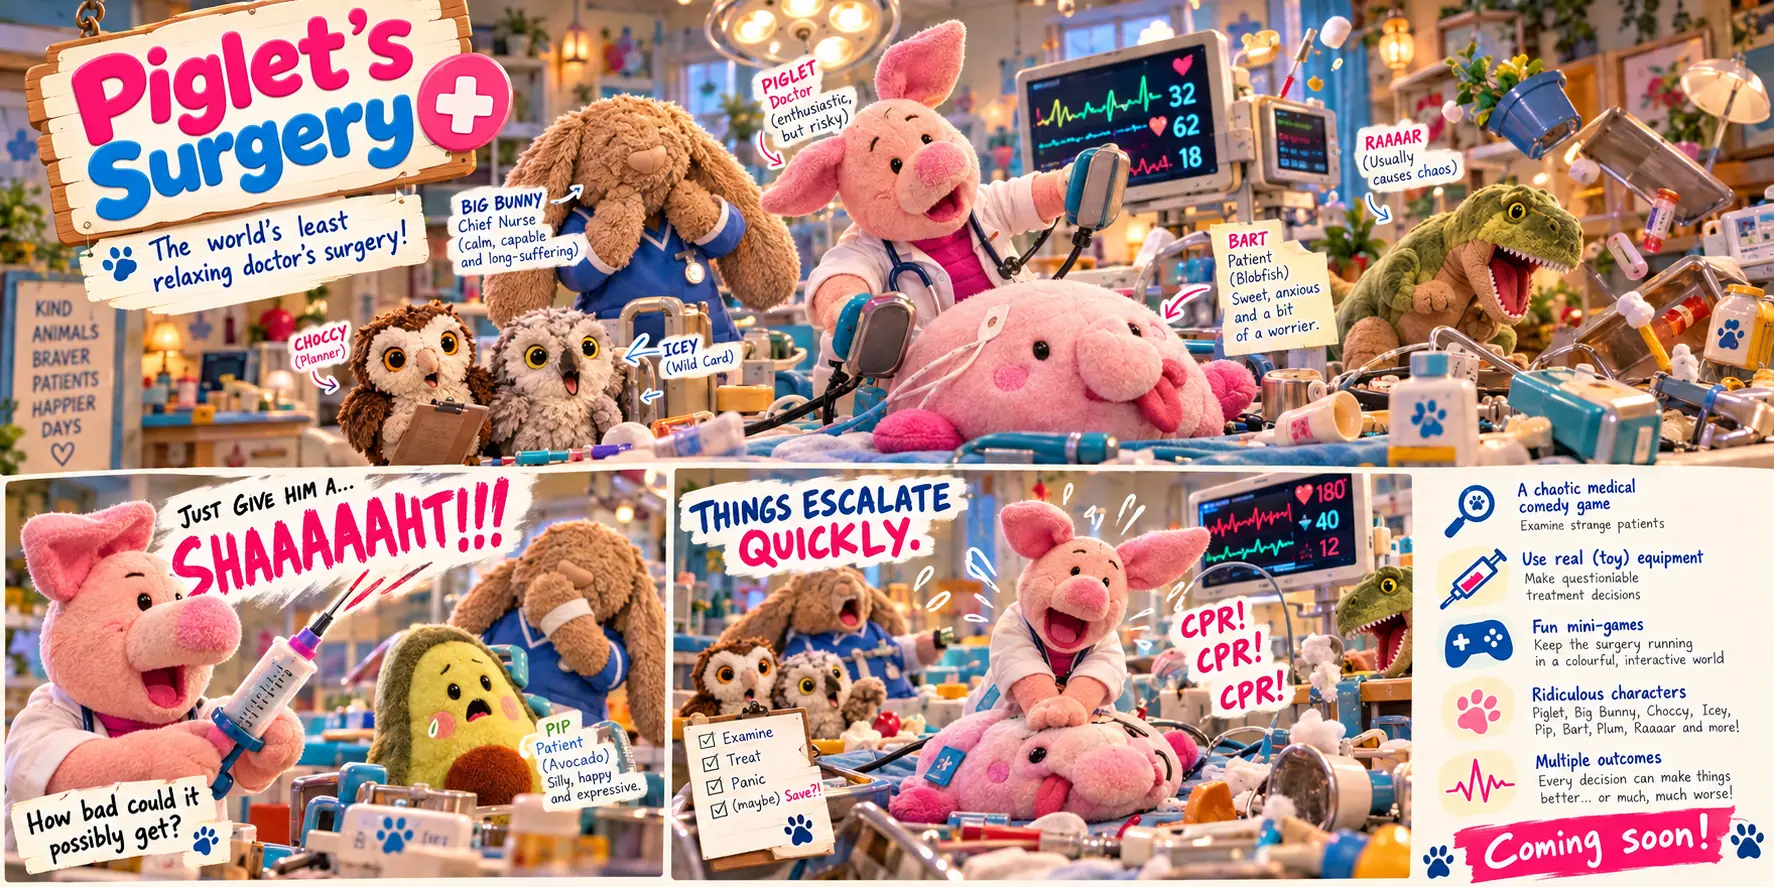
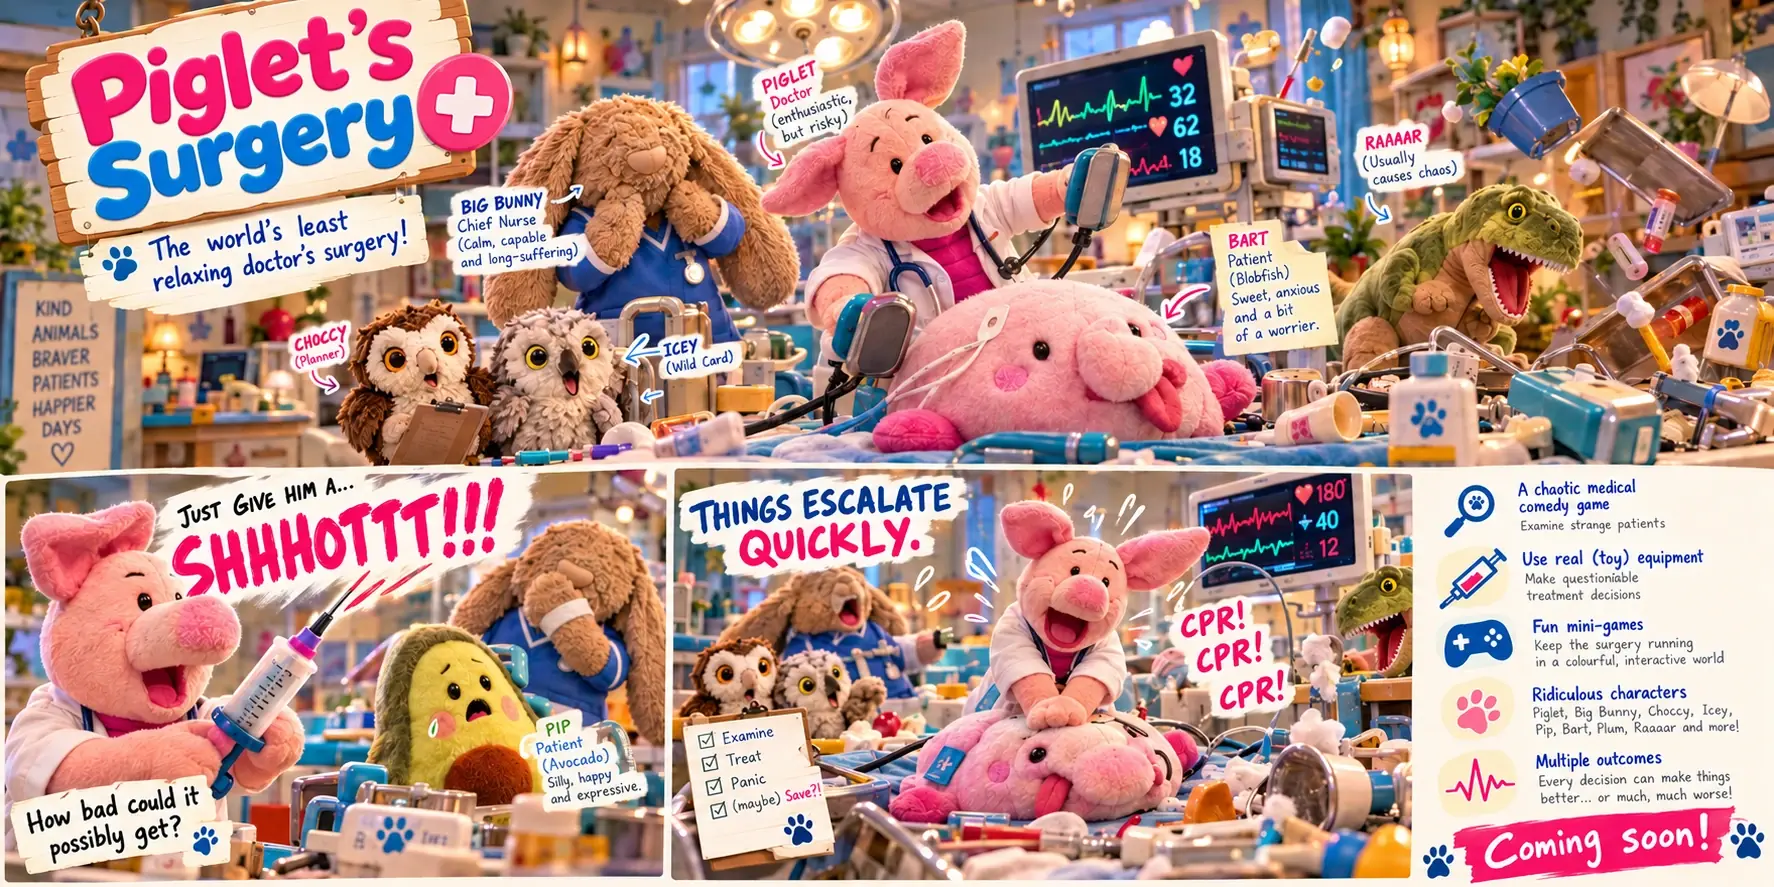
Replace Piglet's Surgery and Axolotl Odyssey artwork (#15)
- Piglet's Surgery: new key art ("SHHHOTTT!!!" panel); alt text updated.
- Axolotl Odyssey: the featured card now shows the game's title screen,
  cropped from 4:3 to the cards' 16:9 with the title and menu centred;
  alt text updated.

Claude-Session: https://claude.ai/code/session_018ZPfCoz75hGKiiKB5FzeEX

diff --git a/src/consts.ts b/src/consts.ts
@@ -46,7 +46,7 @@ export const PRODUCTS: Product[] = [
 			"An underwater adventure about an axolotl trying to discover where the water has gone.",
 		icon: "/icons/axolotl-odyssey.png",
 		art: "/art/axolotl-odyssey.webp",
-		artAlt: "A pool full of pink, gold and dark axolotls swimming under lily pads in Axolotl Odyssey",
+		artAlt: "The Axolotl Odyssey title screen: pink, gold and dark axolotls swimming under lily pads behind the game title and its Swim, Who goes east, How to play, Journal and Settings buttons",
 		playUrl: "/play/",
 		appStore: "",
 		googlePlay: "",
